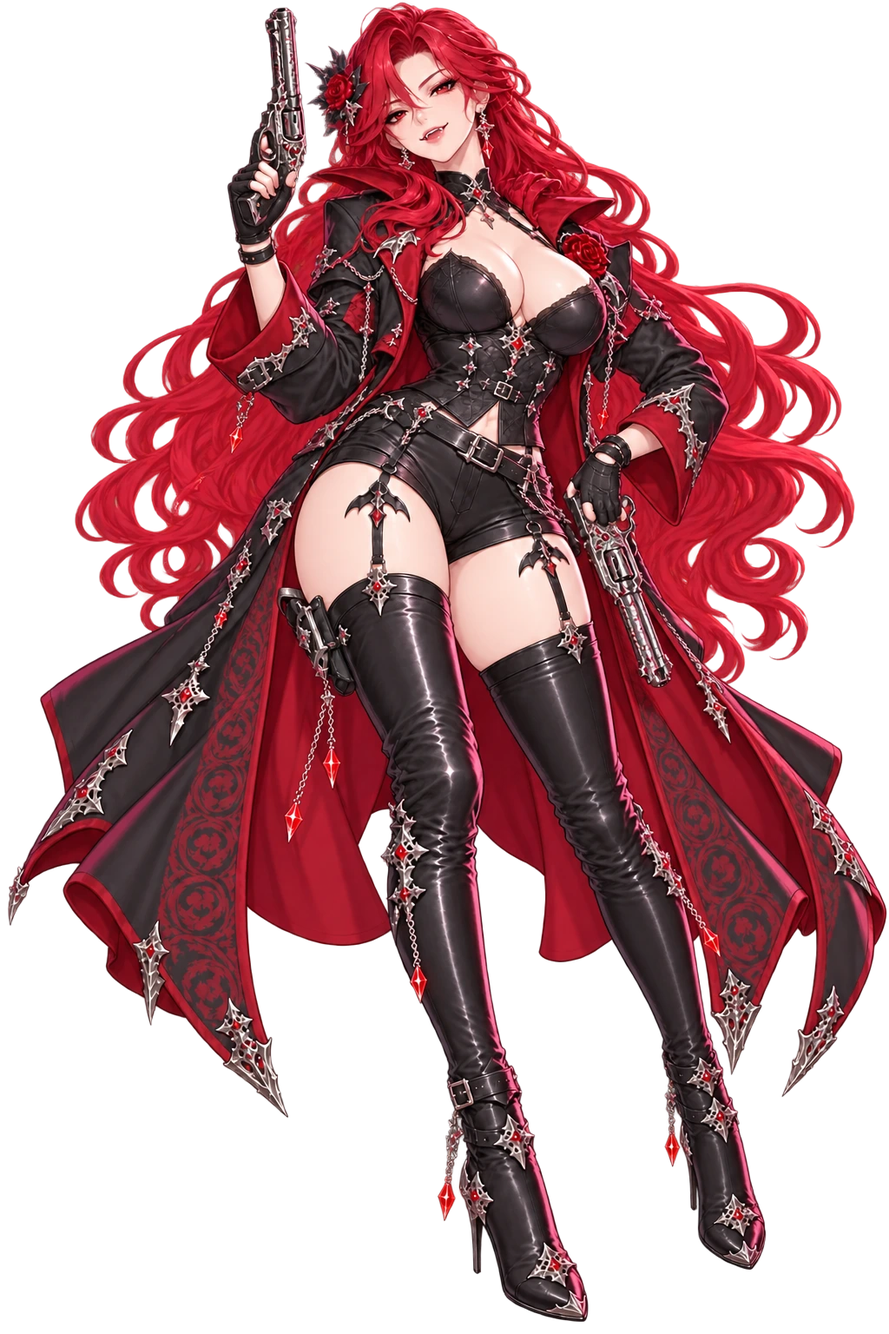
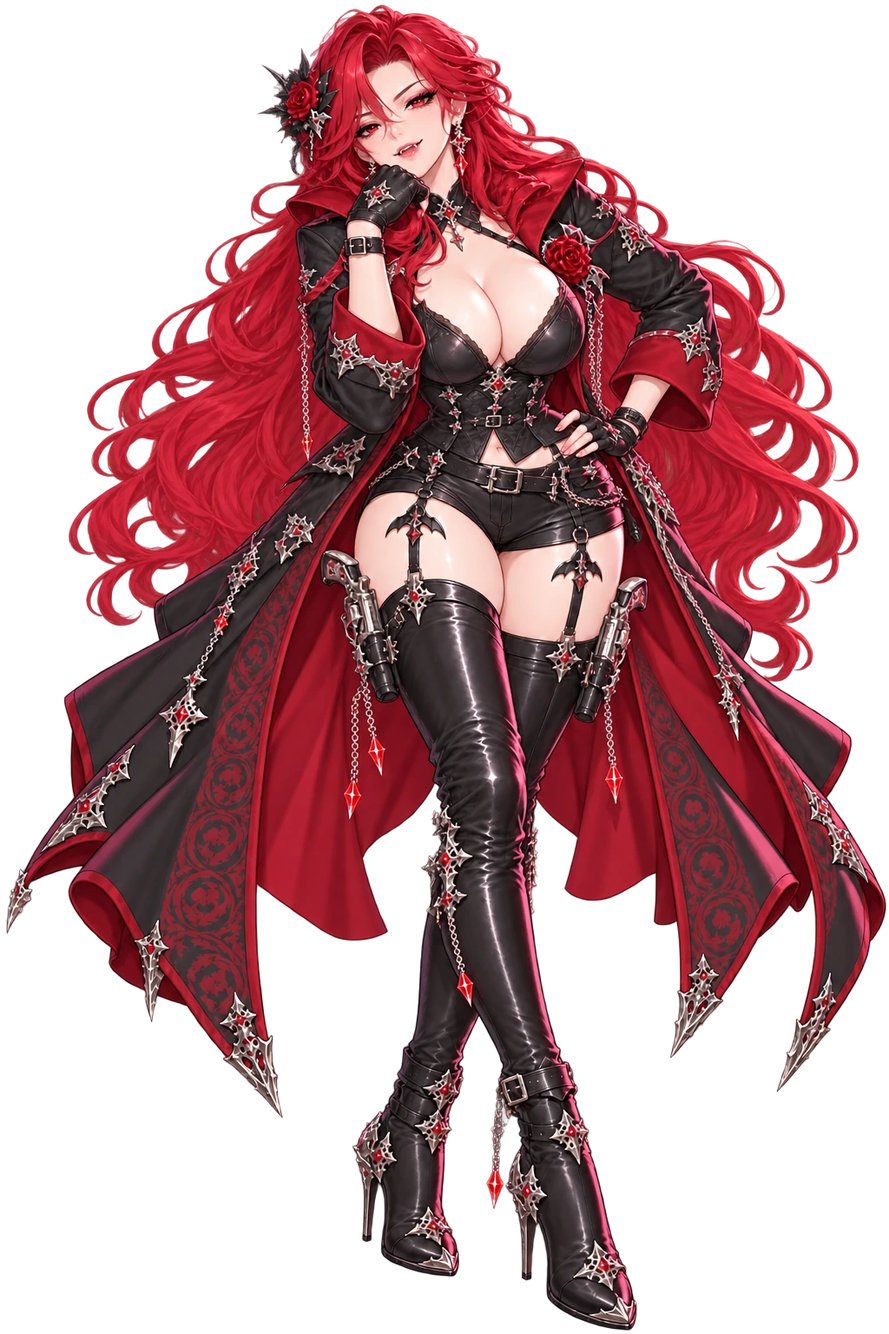
Pose moods for Scarlet; cut-outs with real transparency
Moods become whole poses (owner request, D-029). Scarlet's set is approved
by the owner; the other four heroines follow on this branch (B-20).

- Mood set: smile, laugh, tease, wink, blush, shy, pout, angry, sad, defined
  once in src/data/progression.ts. smirk and grin are gone (lines retagged,
  files deleted). Scarlet's chats use sad and angry and every line has a mood.
- Scarlet's nine moods are new poses, generated with the image tool's
  transparent_background instead of a green screen. Her base portrait is
  regenerated the same way (clean hair edges). art-import strips the faint
  fringe the tool's cut-out leaves (cleanAlpha): halo <= 0.004.
- Chat: the old pose fades out under the new one instead of being removed.
- Art gate: pose moods are checked for size and footing (POSE_MOODS), hand
  boxes are per picture and zoomed 3x, sheets are full page. A data test
  fails when a line uses a mood its heroine has no picture for.
- Rule (AGENTS 7): images that need a transparent background are requested
  transparent from the generator, not keyed from a green screen.
- Docs: ART_GUIDE 3, 5.4 and 9, ART_QA, ART_ASSETS, DECISIONS, STATUS, B-20.

diff --git a/scripts/art-check.ts b/scripts/art-check.ts
@@ -259,8 +259,10 @@ for (const hero of heroes) {
     360,
   );
 
-  // c2) every hand in every portrait, 1.6× (HAND_BOXES): count fingers, look for nails on the palm side
-  const Z = 1.6; // the portrait is drawn 1024·Z wide, whatever its file size, so boxes line up
+  // c2) every hand in every portrait, zoomed (HAND_BOXES): count fingers, look for nails on the palm side
+  // 3×: at 1.6× three hands the owner rejected looked fine (a hand lying on a gun instead
+  // of gripping it, a second row of knuckles, clasped hands with no countable fingers).
+  const Z = 3; // the portrait is drawn 1024·Z wide, whatever its file size, so boxes line up
   const hands = ['portrait', ...MOODS.map((m) => `portrait-${m}`)]
     .filter((f) => existsSync(`${dir}/${f}.webp`))
     .flatMap((f) =>

diff --git a/scripts/artSpec.ts b/scripts/artSpec.ts
@@ -55,18 +55,15 @@ export const HAND_BOXES: Record<string, Box[] | Record<string, Box[]>> = {
       [180, 600, 180, 180],
     ],
     'portrait-tease': [
-      [230, 150, 160, 180],
-      [610, 480, 180, 180],
+      [360, 160, 180, 180],
+      [600, 410, 180, 180],
     ],
     'portrait-wink': [
       [200, 190, 180, 170],
       [520, 460, 180, 160],
     ],
-    'portrait-blush': [
-      [480, 120, 180, 180],
-      [220, 620, 180, 180],
-    ],
-    'portrait-shy': [[450, 540, 180, 170]],
+    'portrait-blush': [[480, 110, 180, 180]],
+    'portrait-shy': [[370, 160, 180, 180]],
     'portrait-pout': [
       [360, 440, 180, 170],
       [560, 440, 180, 170],

diff --git a/docs/ART_QA.md b/docs/ART_QA.md
@@ -35,13 +35,13 @@ Measured on clean art: halo ≤ 0.03, tint ≤ 1.6 %, spill 0, mood IoU ≥ 0.99
 
 ## 3. Status (2026-10-03)
 
-| Heroine | Automated                           | Agent eye review (2026-10-03)                                                                                                                                                                                                                                                                                                     | Owner sign-off still needed                                                                                                                            |
-| ------- | ----------------------------------- | --------------------------------------------------------------------------------------------------------------------------------------------------------------------------------------------------------------------------------------------------------------------------------------------------------------------------------- | ------------------------------------------------------------------------------------------------------------------------------------------------------ |
-| Scarlet | passes                              | **Nine pose moods (new, D-029):** finger counts right and nails on the backs of the fingers in all ten pictures, nail colour consistent, same size in every pose, no gun toward the viewer or her head. Base portrait: olive hair edges repaired (source lost; a few faint warm specks remain on the thinnest strands at 3× zoom) | the pose moods (first of their kind: does he like the idea and each pose?), chibi front pose (predates her full-body art), gallery-1 (predates it too) |
-| Yuki    | incomplete (no angry, sad)          | Hands correct in all 8 (face-only moods)                                                                                                                                                                                                                                                                                          | waits for the pose-mood verdict (B-20); chibi front pose, gallery-1                                                                                    |
-| Kaede   | incomplete (no angry, sad)          | Hands correct in all 8 (face-only moods)                                                                                                                                                                                                                                                                                          | waits for B-20; chibi front pose, gallery-1                                                                                                            |
-| Selene  | incomplete (no angry, sad)          | Hands correct in all 8 (face-only moods)                                                                                                                                                                                                                                                                                          | waits for B-20                                                                                                                                         |
-| Nemu    | incomplete (no angry, sad, gallery) | Hands correct in all 8 (face-only moods)                                                                                                                                                                                                                                                                                          | waits for B-20; chibi front pose (B shipped, A the alternative), five gallery pictures                                                                 |
+| Heroine | Automated                           | Agent eye review (2026-10-03)                                                                                                                                                                                                                                                                                                                                                                 | Owner sign-off still needed                                                                       |
+| ------- | ----------------------------------- | --------------------------------------------------------------------------------------------------------------------------------------------------------------------------------------------------------------------------------------------------------------------------------------------------------------------------------------------------------------------------------------------- | ------------------------------------------------------------------------------------------------- |
+| Scarlet | passes                              | **Nine pose moods (D-029), owner approved 2026-10-03** after three were redone for their hands (blush, tease, shy). Hands reviewed at 3× in all ten pictures: fingers countable, every held revolver gripped, nail colour consistent; same size in every pose; no gun toward the viewer or her head. Base portrait regenerated with real transparency (owner picked take A): clean hair edges | chibi front pose (predates her full-body art), gallery-1 (predates it too)                        |
+| Yuki    | incomplete (no angry, sad)          | Hands correct in all 8 (face-only moods)                                                                                                                                                                                                                                                                                                                                                      | pose moods to redo (B-20); chibi front pose, gallery-1                                            |
+| Kaede   | incomplete (no angry, sad)          | Hands correct in all 8 (face-only moods)                                                                                                                                                                                                                                                                                                                                                      | pose moods to redo (B-20); chibi front pose, gallery-1                                            |
+| Selene  | incomplete (no angry, sad)          | Hands correct in all 8 (face-only moods)                                                                                                                                                                                                                                                                                                                                                      | pose moods to redo (B-20)                                                                         |
+| Nemu    | incomplete (no angry, sad, gallery) | Hands correct in all 8 (face-only moods)                                                                                                                                                                                                                                                                                                                                                      | pose moods to redo (B-20); chibi front pose (B shipped, A the alternative), five gallery pictures |
 
 Already approved by the owner one picture at a time: every base portrait, the 15 new chibi poses and Selene's new front chibi, gallery 2–5 for the first four, Selene's gallery-1.
 

diff --git a/docs/STATUS.md b/docs/STATUS.md
@@ -63,15 +63,14 @@
 
 ## Last session
 
-**2026-10-03 — Pose moods trial for Scarlet; cut-outs with real transparency (Claude, local Windows session). Branch `wip/pose-moods`, NOT merged: waiting for the owner's verdict (B-20)**
+**2026-10-03 — Pose moods: Scarlet approved, Yuki in progress; cut-outs with real transparency (Claude, local Windows session). Branch `wip/pose-moods`, not merged yet (B-20)**
 
-- The owner asked two things. (1) Can the generator output transparent backgrounds? Yes: Codex's image tool has `transparent_background`. Its cut-out beats keying a green screen (no screen colour to unmix; halo ≤ 0.003 once `npm run art` strips the faint fringe it leaves, `cleanAlpha` in `scripts/chroma.ts`). ART_GUIDE §3 and §9 now make it the default for cut-outs. (2) Moods should be whole poses, not the base portrait with a new face; start with one heroine to see if he likes it (D-029).
-- Scarlet has nine pose moods (list and lessons in ART_ASSETS "Pose moods"). The mood set changed to smile, laugh, tease, wink, blush, shy, pout, angry, sad (`MOODS` in `src/data/progression.ts`, the one definition now); `smirk`/`grin` files are deleted and their lines retagged for all five heroines; Scarlet's chats are retagged for poses: Bond 5 uses `sad` and `angry`, Bond 7 `sad`, and every line of hers that had no mood now has one (an untagged line falls back to `smile`, which with poses means she snaps back to the smile pose mid-scene). The other four have no `angry`/`sad` art, so their lines don't use them (a data test enforces it).
-- Chat: the old pose fades out under the new one (`.leave`, `MOOD_SWAP_MS`). Art gate: pose moods are checked for size and footing (`POSE_MOODS`), hand boxes are per picture. It caught a real defect (the first `angry` had a boot cut off by the image edge).
-- My review of Scarlet's sheets: finger counts right and nails on the backs of the fingers in all ten pictures; nail colour made consistent (three pictures edited); no gun points at the viewer or at her head. The owner has not seen them yet.
-- If he likes it: merge and continue with B-20. If not: delete the branch but keep the transparency work (B-20 says how).
-
-**Previously, 2026-10-03 — Art gate; ghost halo and blurry chats fixed (Claude, local Windows session)**
+- The owner asked two things. (1) Can the generator output transparent backgrounds? Yes: Codex's image tool has `transparent_background`. Its cut-out beats keying a green screen (no screen colour to unmix; halo ≤ 0.004 once `npm run art` strips the faint fringe it leaves, `cleanAlpha` in `scripts/chroma.ts`). It is now a rule (AGENTS §7, ART_GUIDE §3 and §9): anything that needs a transparent background is asked transparent from the generator. (2) Moods should be whole poses, not the base portrait with a new face (D-029).
+- Scarlet has nine pose moods, **approved by the owner** (list and lessons in ART_ASSETS "Pose moods"). He rejected the first `blush`, `tease` and `shy` for their hands and picked replacements from two candidates each; he also picked a regenerated base portrait (real transparency, clean hair). The mood set is smile, laugh, tease, wink, blush, shy, pout, angry, sad (`MOODS` in `src/data/progression.ts`, the one definition now); `smirk`/`grin` files are deleted and their lines retagged for all five heroines; every line of Scarlet's has a mood (an untagged line falls back to `smile`, which with poses means she snaps back to the smile pose mid-scene). The other four have no `angry`/`sad` art yet, so their lines don't use them (a data test enforces it).
+- Chat: the old pose fades out under the new one (`.leave`, `MOOD_SWAP_MS`). Art gate: pose moods are checked for size and footing (`POSE_MOODS`), hand boxes are per picture, and the hands sheet zooms 3× (at 1.6× I passed hands he rejected).
+- **Rule from the owner: new art gets his review before it is committed.** Send him the moods sheet and the hands sheet first.
+- Next: Yuki, then Kaede, Selene, Nemu (B-20 has the steps). Yuki's generated pictures, if any are waiting for his review, are in `artifacts/art-src/yuki/` on his PC (git-ignored), not in the repo.
+  **Previously, 2026-10-03 — Art gate; ghost halo and blurry chats fixed (Claude, local Windows session)**
 
 - The owner saw a faint ghostly aura around Nemu and found the chat portraits a little low-res on desktop, and asked for a quality gate every heroine must pass. Halo: the keyer assumed a pure #00FF00 screen; generators return (3, 248, 5)-ish, so the screen near her came out ~3 % opaque, a 12 px band on every portrait (Nemu's black hair made it obvious). The keyer (now `scripts/chroma.ts`, unit-tested) measures the screen colour. Blur: the chat image showed at its natural 1536 px on every desktop, stretched 2× on the owner's 200 % 4K display; the home screen 2.1×. Both are now framed from the screen and capped at 1.25× (D-028); on 4K she shows head to ankle, sharp (B-19 for the framing).
 - Repaired all shipped cut-outs: re-keyed from the original PNGs still on this machine (Nemu, Selene, Kaede portraits and moods; all 20 chibi poses except the front ones of Scarlet, Yuki and Kaede, which were clean); Scarlet's and Yuki's portraits (sources lost) had the band removed from the WebP, and Scarlet's olive hair edges (an older keyer's fringe) recoloured. Cut-outs are WebP quality 0.92 now (was 0.85).
@@ -133,7 +132,7 @@
 
 ## Next up
 
-0. **Owner verdict on Scarlet's pose moods (B-20, branch `wip/pose-moods`):** `npm run dev`, open `/?dev`, Messages → Scarlet, play "The Crimson Keep" (sad, angry) and "A Heartbeat" (pout, shy, blush, laugh, wink). Merge and do the other four, or drop the branch.
+0. **Pose moods for Yuki, Kaede, Selene and Nemu (B-20, branch `wip/pose-moods`):** Scarlet's are approved. One heroine at a time: regenerate her base with real transparency, nine poses, the owner's review, then wire her chats. Merge the branch to `main` when the owner says so.
 1. **Art gate sign-off (B-18):** the owner looks at `artifacts/art-check/` (or the game) and signs off each heroine in `docs/ART_QA.md`; redraw what he rejects. Ask him about B-19 (upscaled portraits for 4K framing).
 2. **Nemu follow-ups (owner):** confirm her chibi (B, two pins forward, is shipped; A, mid-throw, is the alternative), play her chats, and decide what to do with the two portrait poses he also liked (my suggestion: use them as gallery pictures). Her five gallery pictures are still placeholders (B-01).
 3. **Owner check of Kaede's and Selene's moods** (open a chat with each; any face he dislikes is one Codex image to redo with her `portrait.webp` as the reference, Kaede on blue, Selene on green). Then **T-08** (drop the `FULL_BODY` set, full body becomes the default framing). Then **Owner check:** Messages → a heroine → Gift / Diary / Talk. Then **owner playtest of the upgrade tree and the bigger heroines** (is 1.5 tiles right? `CHIBI_H` in `BattleScene.ts`; does the map panel sit on the right side of her?) and **install the PWA** on the phone (Add to Home Screen). Then **owner playtest of the skill effects** (upgrade each path to 3 with `?dev`; are signatures readable, too flashy at 3× speed?) and the longer music. Then **owner playtest of music + motion** (is the lofi too quiet/loud? any animation that feels slow or annoying? Tweak durations in the motion block of `style.css`). Then **owner playtest of the lobby + Frostveil Pass**, then the previous items. **Owner playtest (earlier):** read a Bond 5+ chat, watch combat at tier 3, listen to the new sounds. Tune in `Vfx.ts` / `sound.ts`.

diff --git a/docs/ART_ASSETS.md b/docs/ART_ASSETS.md
@@ -25,23 +25,23 @@ Kaede's approved design, for future art of her: left hand on her hip with the el
 
 Selene's approved design, for future art of her: the owner asked for cleavage like the other heroines, so her gown now has an open plunging V neckline with halter straps (this replaces the covered high-neck bodice described below; her chibi was redone to match on 2026-10-03). Right hand raised with the fingertips on her bare shoulder, glossy lilac almond-shaped nails, left hand holding a tall moon bow upright at her side (large gold crescent above a dark grip, lower tip around her knee), thick side braid over her left shoulder, gold heeled sandals. The owner checks hands and nails closely: review both hands zoomed in before showing him a candidate.
 
-## Pose moods (2026-10-03, trial: Scarlet)
+## Pose moods (2026-10-03, Scarlet approved)
 
-The owner wants each mood to be a whole pose and expression instead of the base portrait with a new face (D-029). Scarlet is the first; her nine `portrait-<mood>.webp` were generated with her `portrait.webp` as the reference and real transparency from the image tool (`transparent_background`, no green screen). The other four still have face-only moods and no `angry` or `sad`. **Waiting for the owner's verdict on Scarlet before redoing them (B-20).**
+The owner wants each mood to be a whole pose and expression instead of the base portrait with a new face (D-029). Scarlet is the first; her nine `portrait-<mood>.webp` were generated with her `portrait.webp` as the reference and real transparency from the image tool (`transparent_background`, no green screen). The owner approved her set and the approach; the other four follow one at a time (B-20) and until then keep face-only moods and no `angry` or `sad`.
 
 | Mood  | Scarlet's pose                                                                                      |
 | ----- | --------------------------------------------------------------------------------------------------- |
 | smile | revolvers holstered, a hand on her hip, the other tucking hair behind her ear, a soft smile         |
 | laugh | head back, eyes closed, fangs showing, a hand near her mouth, one revolver lowered at her side      |
-| tease | one revolver raised beside her face, barrel up, the other hand at her hip, half-lidded smirk        |
+| tease | revolvers holstered, leaning in, a loose fist under her chin, the other hand on her hip, a smirk    |
 | wink  | one eye closed, a grin, one revolver held up beside her head (barrel up), the other hand on her hip |
-| blush | bright red cheeks, eyes to the side, a hand on her cheek, one revolver hanging in the other hand    |
-| shy   | revolvers holstered, hands clasped in front of her hips, knees together, looking down and away      |
+| blush | bright red cheeks, eyes to the side, a hand on her cheek, the other arm behind her back             |
+| shy   | revolvers holstered, a fist pulling her coat collar up to her cheek, the other arm behind her back  |
 | pout  | revolvers holstered, both hands on her hips, lips pushed out, an annoyed look                       |
 | angry | fighting stance, one revolver aimed out to the side, the other raised, eyes glowing, fangs bared    |
 | sad   | head bowed, eyes downcast, one hand holding her other arm, one revolver hanging at her side         |
 
-Lessons: the first `angry` (wide battle stance, arm fully out) lost a boot to the image edge and was redone with "everything inside the image with a margin"; `smile` and `laugh` came back with red nail polish and `wink` with black, fixed with an edit that changed only the nails (her nails are natural); the filter refused the first `wink` (blowing gun smoke near her lips) and passed a plainer one. Her base `portrait.webp` is still the keyed one whose source is lost (faint warm specks on the thinnest hair strands at high zoom); regenerating it with real transparency would need the owner to approve a new base.
+Lessons: the first `angry` (wide battle stance, arm fully out) lost a boot to the image edge and was redone with "everything inside the image with a margin"; `smile` and `laugh` came back with red nail polish and `wink` with black, fixed with an edit that changed only the nails (her nails are natural); the filter refused the first `wink` (blowing gun smoke near her lips) and passed a plainer one. The owner rejected the first `blush`, `tease` and `shy` for their hands (a hand lying on a revolver instead of gripping it, a second row of knuckles, clasped hands with no countable fingers); the replacements use hand poses the generator gets right: a closed fist, a hand on the hip, an arm behind her back. Her base `portrait.webp` was regenerated with real transparency too (an exact recreation of the keyed one, owner picked take A of two): clean crimson hair edges, halo 0.002 against 0.022.
 
 ## Gallery 2, "Off Duty" (2026-10-02)
 

diff --git a/docs/ART_GUIDE.md b/docs/ART_GUIDE.md
@@ -76,7 +76,7 @@ Follow these rules or faces get cut off:
 - **Chibi (`chibi.webp`)**
   - It is drawn about **one map tile tall**, which is tiny (roughly 40–80 px on screen). It needs a bold silhouette, big head, simple shapes, her signature color and weapon, and no fine details.
   - **She must face screen-RIGHT** (her body angled right, weapon pointing right). The game mirrors her when enemies are on the left.
-  - Full body, **feet near the bottom edge**, centered, **transparent background**, and **no ground shadow** (the game draws its own).
+  - Full body, **feet near the bottom edge**, centered, **transparent background** (asked from the generator, the same way as portraits), and **no ground shadow** (the game draws its own).
   - She bobs gently and kicks back when attacking, so a neutral "ready" stance works best.
 - **Gallery (`gallery-*.webp`)**
   - Wide landscape illustrations with a full background scene. They are shown whole (fit, not cropped) in the lightbox and as 4:3 thumbnails.
@@ -391,6 +391,6 @@ OpenAI's Codex CLI signs in with the owner's ChatGPT plan (no API key) and has a
    **Cut-outs (portraits, moods, chibis): ask for real transparency.** The image tool takes `transparent_background: true`; say so in the prompt ("use your image generation tool with transparent_background set to true … save the tool's output unchanged, no post-processing"). The PNG comes back 1024×1536 with a real alpha channel, and `npm run art` strips its faint fringe. Don't judge these PNGs in an image viewer that ignores alpha: the hidden pixels hold a glow the tool painted behind her. The green screen (§5.1 PORTRAIT RULES; pure blue #0000FF for fire or yellow, as Kaede) is the fallback for tools without the switch.
    For moods, describe the pose (§5.4) and say she keeps the size of image 1. If the image tool refuses a mood, retry once with plainer wording (Selene's `tease` passed as "a playful, amused smile with one eyebrow slightly raised"; Scarlet's `wink` passed once the gun-smoke near her lips was dropped); don't push past a second refusal.
    A small fix to a finished picture works as an edit: attach it as image 1 and the portrait as image 2, and ask to recreate image 1 exactly with one thing changed.
-3. Show the owner the main portrait before making moods from it. Check moods line up (Scarlet's differed from the base by < 0.5 % of the silhouette).
+3. A base portrait that was keyed from a green screen is regenerated with real transparency before its pose moods are made (it is their reference, and its coloured hair edges would carry over): attach it as image 1 and ask to "recreate image 1 EXACTLY … the only differences: clean hair edges with no green tint, and a truly transparent background". Make two takes; the face is redrawn, so the owner picks. Show the owner the main portrait before making moods from it. Check moods line up (Scarlet's differed from the base by < 0.5 % of the silhouette).
 4. Copy the PNGs into `public/art/<id>/` with their final names and run `npm run art` (green is removed there), then `npm run smoke` and look at home, profile, chat and Bond screenshots.
 5. Keep the source PNGs until the owner signs off (`npm run art -- --keep`, or generate in a scratch folder and copy): the keyer improves over time and re-keying from the source is the only clean way to fix an edge problem later (Scarlet's and Yuki's sources were lost). Run the art gate ([ART_QA.md](ART_QA.md)) and fix every ✗ before showing the owner.

diff --git a/docs/BACKLOG.md b/docs/BACKLOG.md
@@ -6,14 +6,20 @@ Legend: **P1** next · **P2** soon · **P3** later · 🔒 blocked (reason given
 
 ---
 
-### B-20 · P1 · Pose moods for every heroine (🔒 owner verdict on Scarlet's)
+### B-20 · P1 · Pose moods for every heroine (Scarlet done; Yuki next)
 
-Moods are becoming whole poses (D-029). Scarlet's nine are done on branch `wip/pose-moods` (not merged: `main` and the live game still have face-only moods and the old mood list). The owner tries her chats (`npm run dev`, `/?dev`, Messages → Scarlet) and looks at `artifacts/art-check/scarlet-2-moods.png` and `scarlet-2b-hands.png`.
+Moods are whole poses (D-029). The owner approved Scarlet's nine and the approach on 2026-10-03. Branch `wip/pose-moods` holds the work; `main` and the live game still have face-only moods and the old mood list until it is merged.
 
-- If he likes it: merge the branch, then redo Yuki, Kaede, Selene and Nemu the same way (ART_GUIDE §5.4 and §9, real transparency; poses written for each character from LORE), add each to `POSE_MOODS` and give her per-picture `HAND_BOXES` (`scripts/artSpec.ts`), tag `angry`/`sad` on the chat lines that call for them, and record her poses in ART_ASSETS. Each set goes through the art gate and his sign-off. Consider redoing Scarlet's base `portrait.webp` with real transparency too (its source is lost; needs his approval of the new base).
-- If he doesn't: delete the branch; keep `cleanAlpha` and the transparent-background recipe (cherry-pick the script and doc parts), they stand on their own.
+For each of Yuki, Kaede, Selene and Nemu, one heroine at a time:
+
+1. Regenerate her base `portrait.webp` with real transparency (ART_GUIDE §9 step 3: an exact recreation, two takes, owner picks). It is the reference for her moods.
+2. Generate nine poses written for her character (LORE; ART_GUIDE §5.4 and §9, `transparent_background`). Use hand poses the generator gets right (ART_ASSETS "Pose moods" lessons).
+3. `npm run art`, add her to `POSE_MOODS`, give her per-picture `HAND_BOXES` (`scripts/artSpec.ts`), review the hands sheet at 3×.
+4. **Show the owner before committing** (the moods sheet, the hands sheet, a chat screenshot). He rejects on hands: every finger countable, every held object actually gripped.
+5. After his sign-off: tag `angry`/`sad` and a mood on every line of her chats, record her poses in ART_ASSETS and the ART_QA table.
+
 - Later (his idea, with B-15 outfits): each outfit gets its own nine poses.
-- Accept: every heroine in `POSE_MOODS`, art gate passes, ART_QA table signed.
+- Accept: every heroine in `POSE_MOODS`, art gate passes, ART_QA table signed, branch merged to `main`.
 
 ### B-18 · P1 · Every heroine through the art gate (owner sign-off)
 

diff --git a/AGENTS.md b/AGENTS.md
@@ -120,6 +120,7 @@ public/fonts/      Self-hosted Cinzel + Barlow Semi Condensed (OFL)
 - Only `src/state/save.ts` touches `localStorage`. If you change the save shape, keep `load()` backward compatible or bump `version` with a migration.
 - UI must work in portrait and landscape, touch and mouse. Tap targets ≥ 40px. Test with `npm run smoke`.
 - Never hard-require an art file to exist; always go through `artImg()` / `artChain()`.
+- **Any generated image that needs a transparent background (portraits, moods, chibis, cut-out props) is requested transparent from the image generator**: tell it to use its image tool with `transparent_background` set to true (`docs/ART_GUIDE.md` §9). Don't generate on a green screen and key it out: keyed edges keep a coloured outline in the hair. The green screen is only the fallback for a tool without that switch.
 - Phaser 4 (not 3). Its API docs for agents ship inside the package: `node_modules/phaser/skills/<topic>/SKILL.md` (see `v3-to-v4-migration` before using v3 examples from the web).
 - Keep dependencies minimal; ask the owner before adding a framework.
 - **Content policy:** all characters are adults (age stated in data, ≥ 21). Tone and art are suggestive fan service — flirty, teasing, revealing outfits — never nudity or explicit sexual content. This keeps the game hostable and within what image generators produce.
